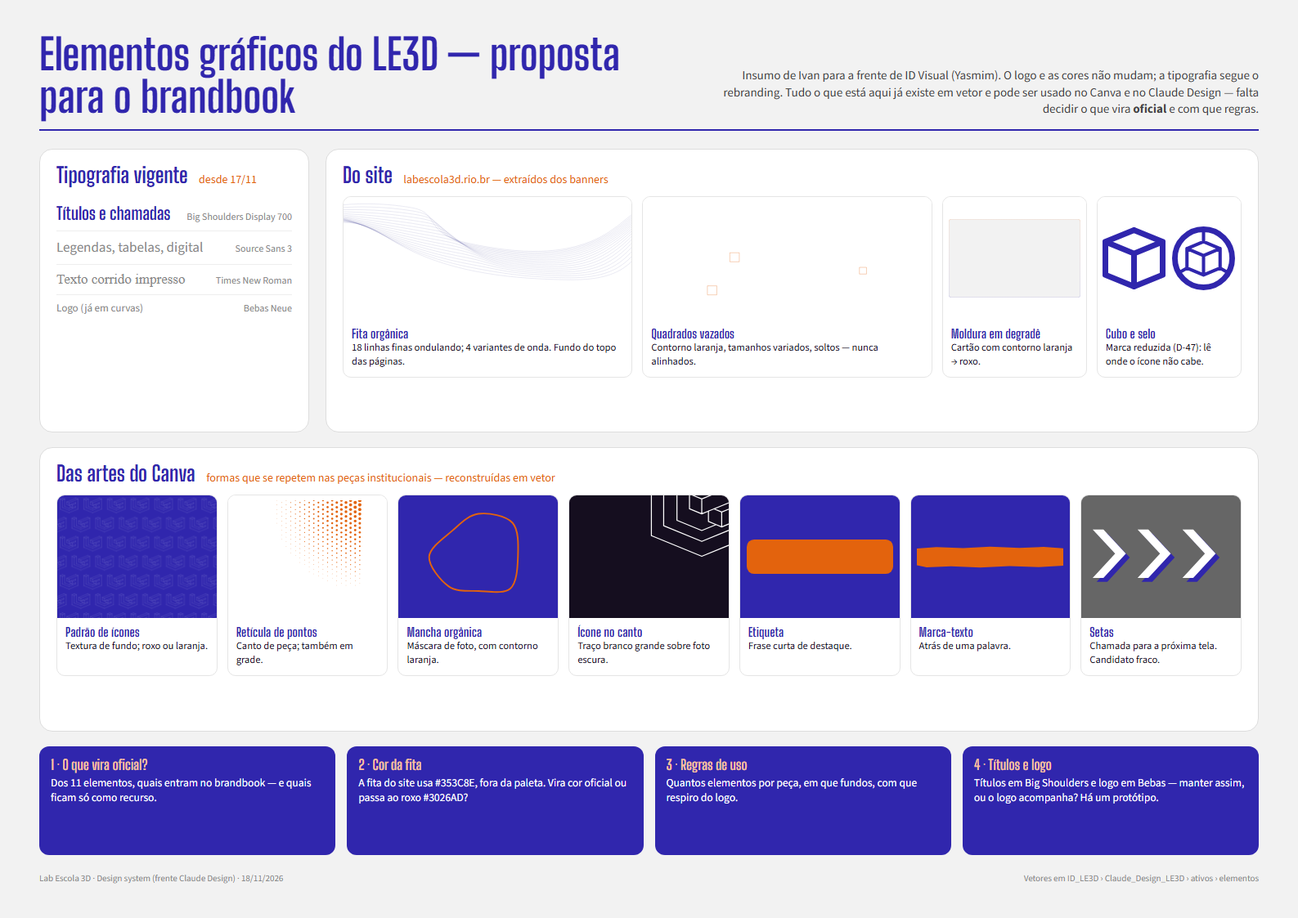
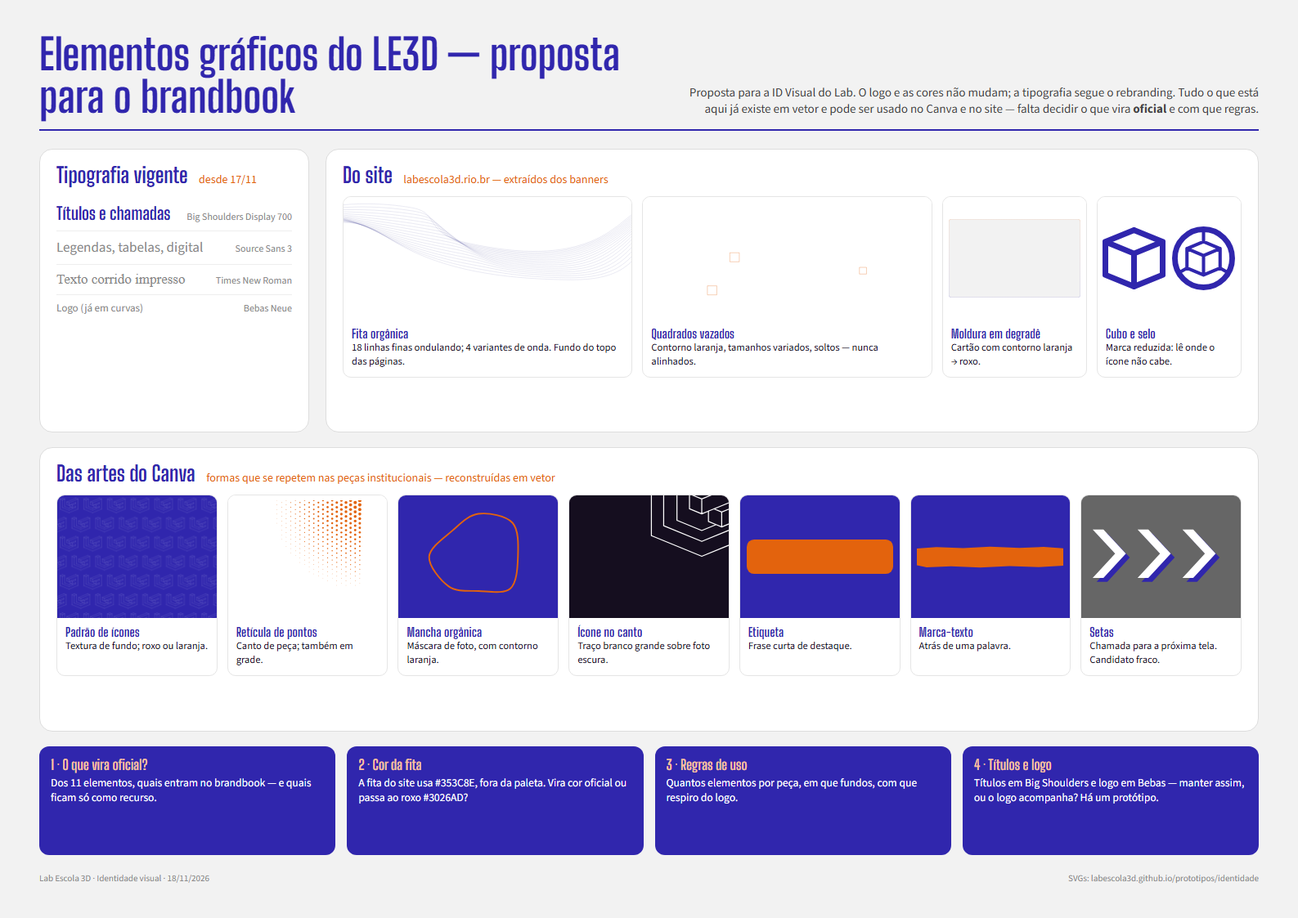
feat(identidade): cubo e selo na galeria; prancha sem referencias internas

diff --git a/identidade/index.html b/identidade/index.html
@@ -10,5 +10,5 @@ h1{color:#3026AD;margin:0 0 6px}h2{color:#3026AD;margin:28px 0 10px}h2 small{col
 <h1>Identidade LE3D — elementos gráficos e kit do professor</h1>
 <p class="aviso"><b>Candidatos, não oficiais.</b> A decisão do que entra no brandbook é da ID Visual. Os SVGs são gerados por código (<a href="https://github.com/labescola3d/prototipos/tree/main/identidade/geradores">geradores</a>); não edite à mão. Clique num card para abrir o SVG (botão direito → salvar).</p>
 <p><a href="prancha-proposta-yasmim.png">Prancha da proposta (lote 1)</a> · <a href="prancha-lote2.png">Prancha do lote 2 e do kit do professor</a> · <a href="https://drive.google.com/drive/folders/10zIkXrBwYcwBtfVTcGe9w5ZvdXt5d_rD">Pasta da equipe no Google Drive</a></p>
-<h2>Elementos do site (2024) <small>10 arquivos</small></h2><div class=g><a class="c" href="elementos/site-2024/fita-organica_antropolojogo-3.svg"><div class="v" style="background:#FFFFFF"><img src="elementos/site-2024/fita-organica_antropolojogo-3.svg" alt="fita-organica_antropolojogo-3" loading="lazy"></div><div class="t">fita-organica_antropolojogo-3</div></a><a class="c" href="elementos/site-2024/fita-organica_formacao-tecnologica.svg"><div class="v" style="background:#FFFFFF"><img src="elementos/site-2024/fita-organica_formacao-tecnologica.svg" alt="fita-organica_formacao-tecnologica" loading="lazy"></div><div class="t">fita-organica_formacao-tecnologica</div></a><a class="c" href="elementos/site-2024/fita-organica_lab-escola-3d.svg"><div class="v" style="background:#FFFFFF"><img src="elementos/site-2024/fita-organica_lab-escola-3d.svg" alt="fita-organica_lab-escola-3d" loading="lazy"></div><div class="t">fita-organica_lab-escola-3d</div></a><a class="c" href="elementos/site-2024/fita-organica_template.svg"><div class="v" style="background:#FFFFFF"><img src="elementos/site-2024/fita-organica_template.svg" alt="fita-organica_template" loading="lazy"></div><div class="t">fita-organica_template</div></a><a class="c" href="elementos/site-2024/moldura-degrade_horizontal.svg"><div class="v" style="background:#FFFFFF"><img src="elementos/site-2024/moldura-degrade_horizontal.svg" alt="moldura-degrade_horizontal" loading="lazy"></div><div class="t">moldura-degrade_horizontal</div></a><a class="c" href="elementos/site-2024/moldura-degrade_vertical.svg"><div class="v" style="background:#FFFFFF"><img src="elementos/site-2024/moldura-degrade_vertical.svg" alt="moldura-degrade_vertical" loading="lazy"></div><div class="t">moldura-degrade_vertical</div></a><a class="c" href="elementos/site-2024/quadrados_antropolojogo-3.svg"><div class="v" style="background:#FFFFFF"><img src="elementos/site-2024/quadrados_antropolojogo-3.svg" alt="quadrados_antropolojogo-3" loading="lazy"></div><div class="t">quadrados_antropolojogo-3</div></a><a class="c" href="elementos/site-2024/quadrados_formacao-tecnologica.svg"><div class="v" style="background:#FFFFFF"><img src="elementos/site-2024/quadrados_formacao-tecnologica.svg" alt="quadrados_formacao-tecnologica" loading="lazy"></div><div class="t">quadrados_formacao-tecnologica</div></a><a class="c" href="elementos/site-2024/quadrados_lab-escola-3d.svg"><div class="v" style="background:#FFFFFF"><img src="elementos/site-2024/quadrados_lab-escola-3d.svg" alt="quadrados_lab-escola-3d" loading="lazy"></div><div class="t">quadrados_lab-escola-3d</div></a><a class="c" href="elementos/site-2024/quadrados_template.svg"><div class="v" style="background:#FFFFFF"><img src="elementos/site-2024/quadrados_template.svg" alt="quadrados_template" loading="lazy"></div><div class="t">quadrados_template</div></a></div><h2>Elementos garimpados no Canva (2026) <small>29 arquivos</small></h2><div class=g><a class="c" href="elementos/canva-2026/bauhaus-modulo.svg"><div class="v" style="background:#FFFFFF"><img src="elementos/canva-2026/bauhaus-modulo.svg" alt="bauhaus-modulo" loading="lazy"></div><div class="t">bauhaus-modulo</div></a><a class="c" href="elementos/canva-2026/brilho-4-pontas.svg"><div class="v" style="background:#3026AD"><img src="elementos/canva-2026/brilho-4-pontas.svg" alt="brilho-4-pontas" loading="lazy"></div><div class="t">brilho-4-pontas</div></a><a class="c" href="elementos/canva-2026/canto-cubo.svg"><div class="v" style="background:#3026AD"><img src="elementos/canva-2026/canto-cubo.svg" alt="canto-cubo" loading="lazy"></div><div class="t">canto-cubo</div></a><a class="c" href="elementos/canva-2026/canto-icone.svg"><div class="v" style="background:#3026AD"><img src="elementos/canva-2026/canto-icone.svg" alt="canto-icone" loading="lazy"></div><div class="t">canto-icone</div></a><a class="c" href="elementos/canva-2026/chevrons_direita.svg"><div class="v" style="background:#3026AD"><img src="elementos/canva-2026/chevrons_direita.svg" alt="chevrons_direita" loading="lazy"></div><div class="t">chevrons_direita</div></a><a class="c" href="elementos/canva-2026/chevrons_esquerda.svg"><div class="v" style="background:#3026AD"><img src="elementos/canva-2026/chevrons_esquerda.svg" alt="chevrons_esquerda" loading="lazy"></div><div class="t">chevrons_esquerda</div></a><a class="c" href="elementos/canva-2026/etiqueta-destaque_laranja.svg"><div class="v" style="background:#FFFFFF"><img src="elementos/canva-2026/etiqueta-destaque_laranja.svg" alt="etiqueta-destaque_laranja" loading="lazy"></div><div class="t">etiqueta-destaque_laranja</div></a><a class="c" href="elementos/canva-2026/etiqueta-destaque_roxo.svg"><div class="v" style="background:#FFFFFF"><img src="elementos/canva-2026/etiqueta-destaque_roxo.svg" alt="etiqueta-destaque_roxo" loading="lazy"></div><div class="t">etiqueta-destaque_roxo</div></a><a class="c" href="elementos/canva-2026/explosao_laranja.svg"><div class="v" style="background:#FFFFFF"><img src="elementos/canva-2026/explosao_laranja.svg" alt="explosao_laranja" loading="lazy"></div><div class="t">explosao_laranja</div></a><a class="c" href="elementos/canva-2026/explosao_roxo.svg"><div class="v" style="background:#FFFFFF"><img src="elementos/canva-2026/explosao_roxo.svg" alt="explosao_roxo" loading="lazy"></div><div class="t">explosao_roxo</div></a><a class="c" href="elementos/canva-2026/faixas-diagonais_laranja.svg"><div class="v" style="background:#3026AD"><img src="elementos/canva-2026/faixas-diagonais_laranja.svg" alt="faixas-diagonais_laranja" loading="lazy"></div><div class="t">faixas-diagonais_laranja</div></a><a class="c" href="elementos/canva-2026/grade-pontos_laranja.svg"><div class="v" style="background:#FFFFFF"><img src="elementos/canva-2026/grade-pontos_laranja.svg" alt="grade-pontos_laranja" loading="lazy"></div><div class="t">grade-pontos_laranja</div></a><a class="c" href="elementos/canva-2026/linhas-circuito_laranja.svg"><div class="v" style="background:#3026AD"><img src="elementos/canva-2026/linhas-circuito_laranja.svg" alt="linhas-circuito_laranja" loading="lazy"></div><div class="t">linhas-circuito_laranja</div></a><a class="c" href="elementos/canva-2026/mancha-organica_1.svg"><div class="v" style="background:#FFFFFF"><img src="elementos/canva-2026/mancha-organica_1.svg" alt="mancha-organica_1" loading="lazy"></div><div class="t">mancha-organica_1</div></a><a class="c" href="elementos/canva-2026/mancha-organica_1_contorno.svg"><div class="v" style="background:#FFFFFF"><img src="elementos/canva-2026/mancha-organica_1_contorno.svg" alt="mancha-organica_1_contorno" loading="lazy"></div><div class="t">mancha-organica_1_contorno</div></a><a class="c" href="elementos/canva-2026/mancha-organica_2.svg"><div class="v" style="background:#FFFFFF"><img src="elementos/canva-2026/mancha-organica_2.svg" alt="mancha-organica_2" loading="lazy"></div><div class="t">mancha-organica_2</div></a><a class="c" href="elementos/canva-2026/mancha-organica_2_contorno.svg"><div class="v" style="background:#FFFFFF"><img src="elementos/canva-2026/mancha-organica_2_contorno.svg" alt="mancha-organica_2_contorno" loading="lazy"></div><div class="t">mancha-organica_2_contorno</div></a><a class="c" href="elementos/canva-2026/mancha-organica_3.svg"><div class="v" style="background:#FFFFFF"><img src="elementos/canva-2026/mancha-organica_3.svg" alt="mancha-organica_3" loading="lazy"></div><div class="t">mancha-organica_3</div></a><a class="c" href="elementos/canva-2026/mancha-organica_3_contorno.svg"><div class="v" style="background:#FFFFFF"><img src="elementos/canva-2026/mancha-organica_3_contorno.svg" alt="mancha-organica_3_contorno" loading="lazy"></div><div class="t">mancha-organica_3_contorno</div></a><a class="c" href="elementos/canva-2026/marca-texto_laranja.svg"><div class="v" style="background:#FFFFFF"><img src="elementos/canva-2026/marca-texto_laranja.svg" alt="marca-texto_laranja" loading="lazy"></div><div class="t">marca-texto_laranja</div></a><a class="c" href="elementos/canva-2026/mascara-diagonal.svg"><div class="v" style="background:#FFFFFF"><img src="elementos/canva-2026/mascara-diagonal.svg" alt="mascara-diagonal" loading="lazy"></div><div class="t">mascara-diagonal</div></a><a class="c" href="elementos/canva-2026/mosaico-triangulos.svg"><div class="v" style="background:#FFFFFF"><img src="elementos/canva-2026/mosaico-triangulos.svg" alt="mosaico-triangulos" loading="lazy"></div><div class="t">mosaico-triangulos</div></a><a class="c" href="elementos/canva-2026/ondas-concentricas.svg"><div class="v" style="background:#E3630D"><img src="elementos/canva-2026/ondas-concentricas.svg" alt="ondas-concentricas" loading="lazy"></div><div class="t">ondas-concentricas</div></a><a class="c" href="elementos/canva-2026/padrao-icones_laranja.svg"><div class="v" style="background:#FFFFFF"><img src="elementos/canva-2026/padrao-icones_laranja.svg" alt="padrao-icones_laranja" loading="lazy"></div><div class="t">padrao-icones_laranja</div></a><a class="c" href="elementos/canva-2026/padrao-icones_roxo.svg"><div class="v" style="background:#FFFFFF"><img src="elementos/canva-2026/padrao-icones_roxo.svg" alt="padrao-icones_roxo" loading="lazy"></div><div class="t">padrao-icones_roxo</div></a><a class="c" href="elementos/canva-2026/reticula-pontos_branco.svg"><div class="v" style="background:#3026AD"><img src="elementos/canva-2026/reticula-pontos_branco.svg" alt="reticula-pontos_branco" loading="lazy"></div><div class="t">reticula-pontos_branco</div></a><a class="c" href="elementos/canva-2026/reticula-pontos_laranja.svg"><div class="v" style="background:#FFFFFF"><img src="elementos/canva-2026/reticula-pontos_laranja.svg" alt="reticula-pontos_laranja" loading="lazy"></div><div class="t">reticula-pontos_laranja</div></a><a class="c" href="elementos/canva-2026/reticula-pontos_roxo.svg"><div class="v" style="background:#3026AD"><img src="elementos/canva-2026/reticula-pontos_roxo.svg" alt="reticula-pontos_roxo" loading="lazy"></div><div class="t">reticula-pontos_roxo</div></a><a class="c" href="elementos/canva-2026/setas-sequencia.svg"><div class="v" style="background:#FFFFFF"><img src="elementos/canva-2026/setas-sequencia.svg" alt="setas-sequencia" loading="lazy"></div><div class="t">setas-sequencia</div></a></div><h2>Kit do professor — gabaritos A4 <small>14 arquivos</small></h2><div class=g><a class="c" href="gabaritos-professor/cabecalho.svg"><div class="v" style="background:#FFFFFF"><img src="gabaritos-professor/cabecalho.svg" alt="cabecalho" loading="lazy"></div><div class="t">cabecalho</div></a><a class="c" href="gabaritos-professor/cartas_12.svg"><div class="v" style="background:#FFFFFF"><img src="gabaritos-professor/cartas_12.svg" alt="cartas_12" loading="lazy"></div><div class="t">cartas_12</div></a><a class="c" href="gabaritos-professor/cartas_4.svg"><div class="v" style="background:#FFFFFF"><img src="gabaritos-professor/cartas_4.svg" alt="cartas_4" loading="lazy"></div><div class="t">cartas_4</div></a><a class="c" href="gabaritos-professor/cartas_6.svg"><div class="v" style="background:#FFFFFF"><img src="gabaritos-professor/cartas_6.svg" alt="cartas_6" loading="lazy"></div><div class="t">cartas_6</div></a><a class="c" href="gabaritos-professor/dado-planificado.svg"><div class="v" style="background:#FFFFFF"><img src="gabaritos-professor/dado-planificado.svg" alt="dado-planificado" loading="lazy"></div><div class="t">dado-planificado</div></a><a class="c" href="gabaritos-professor/ficha-pistas.svg"><div class="v" style="background:#FFFFFF"><img src="gabaritos-professor/ficha-pistas.svg" alt="ficha-pistas" loading="lazy"></div><div class="t">ficha-pistas</div></a><a class="c" href="gabaritos-professor/fichas-sorteio.svg"><div class="v" style="background:#FFFFFF"><img src="gabaritos-professor/fichas-sorteio.svg" alt="fichas-sorteio" loading="lazy"></div><div class="t">fichas-sorteio</div></a><a class="c" href="gabaritos-professor/quebra-cabeca_3x3.svg"><div class="v" style="background:#FFFFFF"><img src="gabaritos-professor/quebra-cabeca_3x3.svg" alt="quebra-cabeca_3x3" loading="lazy"></div><div class="t">quebra-cabeca_3x3</div></a><a class="c" href="gabaritos-professor/quebra-cabeca_5x5.svg"><div class="v" style="background:#FFFFFF"><img src="gabaritos-professor/quebra-cabeca_5x5.svg" alt="quebra-cabeca_5x5" loading="lazy"></div><div class="t">quebra-cabeca_5x5</div></a><a class="c" href="gabaritos-professor/quebra-cabeca_8x8.svg"><div class="v" style="background:#FFFFFF"><img src="gabaritos-professor/quebra-cabeca_8x8.svg" alt="quebra-cabeca_8x8" loading="lazy"></div><div class="t">quebra-cabeca_8x8</div></a><a class="c" href="gabaritos-professor/tabuleiro_anel.svg"><div class="v" style="background:#FFFFFF"><img src="gabaritos-professor/tabuleiro_anel.svg" alt="tabuleiro_anel" loading="lazy"></div><div class="t">tabuleiro_anel</div></a><a class="c" href="gabaritos-professor/tabuleiro_colmeia.svg"><div class="v" style="background:#FFFFFF"><img src="gabaritos-professor/tabuleiro_colmeia.svg" alt="tabuleiro_colmeia" loading="lazy"></div><div class="t">tabuleiro_colmeia</div></a><a class="c" href="gabaritos-professor/tabuleiro_moldura.svg"><div class="v" style="background:#FFFFFF"><img src="gabaritos-professor/tabuleiro_moldura.svg" alt="tabuleiro_moldura" loading="lazy"></div><div class="t">tabuleiro_moldura</div></a><a class="c" href="gabaritos-professor/tabuleiro_serpentina.svg"><div class="v" style="background:#FFFFFF"><img src="gabaritos-professor/tabuleiro_serpentina.svg" alt="tabuleiro_serpentina" loading="lazy"></div><div class="t">tabuleiro_serpentina</div></a></div>
+<h2>Marca reduzida: cubo e selo <small>2 arquivos</small></h2><div class=g><a class="c" href="marca/cubo-le3d_traco.svg"><div class="v" style="background:#FFFFFF"><img src="marca/cubo-le3d_traco.svg" alt="cubo-le3d_traco" loading="lazy"></div><div class="t">cubo-le3d_traco</div></a><a class="c" href="marca/selo-cubo-le3d_traco.svg"><div class="v" style="background:#FFFFFF"><img src="marca/selo-cubo-le3d_traco.svg" alt="selo-cubo-le3d_traco" loading="lazy"></div><div class="t">selo-cubo-le3d_traco</div></a></div><h2>Elementos do site (2024) <small>10 arquivos</small></h2><div class=g><a class="c" href="elementos/site-2024/fita-organica_antropolojogo-3.svg"><div class="v" style="background:#FFFFFF"><img src="elementos/site-2024/fita-organica_antropolojogo-3.svg" alt="fita-organica_antropolojogo-3" loading="lazy"></div><div class="t">fita-organica_antropolojogo-3</div></a><a class="c" href="elementos/site-2024/fita-organica_formacao-tecnologica.svg"><div class="v" style="background:#FFFFFF"><img src="elementos/site-2024/fita-organica_formacao-tecnologica.svg" alt="fita-organica_formacao-tecnologica" loading="lazy"></div><div class="t">fita-organica_formacao-tecnologica</div></a><a class="c" href="elementos/site-2024/fita-organica_lab-escola-3d.svg"><div class="v" style="background:#FFFFFF"><img src="elementos/site-2024/fita-organica_lab-escola-3d.svg" alt="fita-organica_lab-escola-3d" loading="lazy"></div><div class="t">fita-organica_lab-escola-3d</div></a><a class="c" href="elementos/site-2024/fita-organica_template.svg"><div class="v" style="background:#FFFFFF"><img src="elementos/site-2024/fita-organica_template.svg" alt="fita-organica_template" loading="lazy"></div><div class="t">fita-organica_template</div></a><a class="c" href="elementos/site-2024/moldura-degrade_horizontal.svg"><div class="v" style="background:#FFFFFF"><img src="elementos/site-2024/moldura-degrade_horizontal.svg" alt="moldura-degrade_horizontal" loading="lazy"></div><div class="t">moldura-degrade_horizontal</div></a><a class="c" href="elementos/site-2024/moldura-degrade_vertical.svg"><div class="v" style="background:#FFFFFF"><img src="elementos/site-2024/moldura-degrade_vertical.svg" alt="moldura-degrade_vertical" loading="lazy"></div><div class="t">moldura-degrade_vertical</div></a><a class="c" href="elementos/site-2024/quadrados_antropolojogo-3.svg"><div class="v" style="background:#FFFFFF"><img src="elementos/site-2024/quadrados_antropolojogo-3.svg" alt="quadrados_antropolojogo-3" loading="lazy"></div><div class="t">quadrados_antropolojogo-3</div></a><a class="c" href="elementos/site-2024/quadrados_formacao-tecnologica.svg"><div class="v" style="background:#FFFFFF"><img src="elementos/site-2024/quadrados_formacao-tecnologica.svg" alt="quadrados_formacao-tecnologica" loading="lazy"></div><div class="t">quadrados_formacao-tecnologica</div></a><a class="c" href="elementos/site-2024/quadrados_lab-escola-3d.svg"><div class="v" style="background:#FFFFFF"><img src="elementos/site-2024/quadrados_lab-escola-3d.svg" alt="quadrados_lab-escola-3d" loading="lazy"></div><div class="t">quadrados_lab-escola-3d</div></a><a class="c" href="elementos/site-2024/quadrados_template.svg"><div class="v" style="background:#FFFFFF"><img src="elementos/site-2024/quadrados_template.svg" alt="quadrados_template" loading="lazy"></div><div class="t">quadrados_template</div></a></div><h2>Elementos garimpados no Canva (2026) <small>29 arquivos</small></h2><div class=g><a class="c" href="elementos/canva-2026/bauhaus-modulo.svg"><div class="v" style="background:#FFFFFF"><img src="elementos/canva-2026/bauhaus-modulo.svg" alt="bauhaus-modulo" loading="lazy"></div><div class="t">bauhaus-modulo</div></a><a class="c" href="elementos/canva-2026/brilho-4-pontas.svg"><div class="v" style="background:#3026AD"><img src="elementos/canva-2026/brilho-4-pontas.svg" alt="brilho-4-pontas" loading="lazy"></div><div class="t">brilho-4-pontas</div></a><a class="c" href="elementos/canva-2026/canto-cubo.svg"><div class="v" style="background:#3026AD"><img src="elementos/canva-2026/canto-cubo.svg" alt="canto-cubo" loading="lazy"></div><div class="t">canto-cubo</div></a><a class="c" href="elementos/canva-2026/canto-icone.svg"><div class="v" style="background:#3026AD"><img src="elementos/canva-2026/canto-icone.svg" alt="canto-icone" loading="lazy"></div><div class="t">canto-icone</div></a><a class="c" href="elementos/canva-2026/chevrons_direita.svg"><div class="v" style="background:#3026AD"><img src="elementos/canva-2026/chevrons_direita.svg" alt="chevrons_direita" loading="lazy"></div><div class="t">chevrons_direita</div></a><a class="c" href="elementos/canva-2026/chevrons_esquerda.svg"><div class="v" style="background:#3026AD"><img src="elementos/canva-2026/chevrons_esquerda.svg" alt="chevrons_esquerda" loading="lazy"></div><div class="t">chevrons_esquerda</div></a><a class="c" href="elementos/canva-2026/etiqueta-destaque_laranja.svg"><div class="v" style="background:#FFFFFF"><img src="elementos/canva-2026/etiqueta-destaque_laranja.svg" alt="etiqueta-destaque_laranja" loading="lazy"></div><div class="t">etiqueta-destaque_laranja</div></a><a class="c" href="elementos/canva-2026/etiqueta-destaque_roxo.svg"><div class="v" style="background:#FFFFFF"><img src="elementos/canva-2026/etiqueta-destaque_roxo.svg" alt="etiqueta-destaque_roxo" loading="lazy"></div><div class="t">etiqueta-destaque_roxo</div></a><a class="c" href="elementos/canva-2026/explosao_laranja.svg"><div class="v" style="background:#FFFFFF"><img src="elementos/canva-2026/explosao_laranja.svg" alt="explosao_laranja" loading="lazy"></div><div class="t">explosao_laranja</div></a><a class="c" href="elementos/canva-2026/explosao_roxo.svg"><div class="v" style="background:#FFFFFF"><img src="elementos/canva-2026/explosao_roxo.svg" alt="explosao_roxo" loading="lazy"></div><div class="t">explosao_roxo</div></a><a class="c" href="elementos/canva-2026/faixas-diagonais_laranja.svg"><div class="v" style="background:#3026AD"><img src="elementos/canva-2026/faixas-diagonais_laranja.svg" alt="faixas-diagonais_laranja" loading="lazy"></div><div class="t">faixas-diagonais_laranja</div></a><a class="c" href="elementos/canva-2026/grade-pontos_laranja.svg"><div class="v" style="background:#FFFFFF"><img src="elementos/canva-2026/grade-pontos_laranja.svg" alt="grade-pontos_laranja" loading="lazy"></div><div class="t">grade-pontos_laranja</div></a><a class="c" href="elementos/canva-2026/linhas-circuito_laranja.svg"><div class="v" style="background:#3026AD"><img src="elementos/canva-2026/linhas-circuito_laranja.svg" alt="linhas-circuito_laranja" loading="lazy"></div><div class="t">linhas-circuito_laranja</div></a><a class="c" href="elementos/canva-2026/mancha-organica_1.svg"><div class="v" style="background:#FFFFFF"><img src="elementos/canva-2026/mancha-organica_1.svg" alt="mancha-organica_1" loading="lazy"></div><div class="t">mancha-organica_1</div></a><a class="c" href="elementos/canva-2026/mancha-organica_1_contorno.svg"><div class="v" style="background:#FFFFFF"><img src="elementos/canva-2026/mancha-organica_1_contorno.svg" alt="mancha-organica_1_contorno" loading="lazy"></div><div class="t">mancha-organica_1_contorno</div></a><a class="c" href="elementos/canva-2026/mancha-organica_2.svg"><div class="v" style="background:#FFFFFF"><img src="elementos/canva-2026/mancha-organica_2.svg" alt="mancha-organica_2" loading="lazy"></div><div class="t">mancha-organica_2</div></a><a class="c" href="elementos/canva-2026/mancha-organica_2_contorno.svg"><div class="v" style="background:#FFFFFF"><img src="elementos/canva-2026/mancha-organica_2_contorno.svg" alt="mancha-organica_2_contorno" loading="lazy"></div><div class="t">mancha-organica_2_contorno</div></a><a class="c" href="elementos/canva-2026/mancha-organica_3.svg"><div class="v" style="background:#FFFFFF"><img src="elementos/canva-2026/mancha-organica_3.svg" alt="mancha-organica_3" loading="lazy"></div><div class="t">mancha-organica_3</div></a><a class="c" href="elementos/canva-2026/mancha-organica_3_contorno.svg"><div class="v" style="background:#FFFFFF"><img src="elementos/canva-2026/mancha-organica_3_contorno.svg" alt="mancha-organica_3_contorno" loading="lazy"></div><div class="t">mancha-organica_3_contorno</div></a><a class="c" href="elementos/canva-2026/marca-texto_laranja.svg"><div class="v" style="background:#FFFFFF"><img src="elementos/canva-2026/marca-texto_laranja.svg" alt="marca-texto_laranja" loading="lazy"></div><div class="t">marca-texto_laranja</div></a><a class="c" href="elementos/canva-2026/mascara-diagonal.svg"><div class="v" style="background:#FFFFFF"><img src="elementos/canva-2026/mascara-diagonal.svg" alt="mascara-diagonal" loading="lazy"></div><div class="t">mascara-diagonal</div></a><a class="c" href="elementos/canva-2026/mosaico-triangulos.svg"><div class="v" style="background:#FFFFFF"><img src="elementos/canva-2026/mosaico-triangulos.svg" alt="mosaico-triangulos" loading="lazy"></div><div class="t">mosaico-triangulos</div></a><a class="c" href="elementos/canva-2026/ondas-concentricas.svg"><div class="v" style="background:#E3630D"><img src="elementos/canva-2026/ondas-concentricas.svg" alt="ondas-concentricas" loading="lazy"></div><div class="t">ondas-concentricas</div></a><a class="c" href="elementos/canva-2026/padrao-icones_laranja.svg"><div class="v" style="background:#FFFFFF"><img src="elementos/canva-2026/padrao-icones_laranja.svg" alt="padrao-icones_laranja" loading="lazy"></div><div class="t">padrao-icones_laranja</div></a><a class="c" href="elementos/canva-2026/padrao-icones_roxo.svg"><div class="v" style="background:#FFFFFF"><img src="elementos/canva-2026/padrao-icones_roxo.svg" alt="padrao-icones_roxo" loading="lazy"></div><div class="t">padrao-icones_roxo</div></a><a class="c" href="elementos/canva-2026/reticula-pontos_branco.svg"><div class="v" style="background:#3026AD"><img src="elementos/canva-2026/reticula-pontos_branco.svg" alt="reticula-pontos_branco" loading="lazy"></div><div class="t">reticula-pontos_branco</div></a><a class="c" href="elementos/canva-2026/reticula-pontos_laranja.svg"><div class="v" style="background:#FFFFFF"><img src="elementos/canva-2026/reticula-pontos_laranja.svg" alt="reticula-pontos_laranja" loading="lazy"></div><div class="t">reticula-pontos_laranja</div></a><a class="c" href="elementos/canva-2026/reticula-pontos_roxo.svg"><div class="v" style="background:#3026AD"><img src="elementos/canva-2026/reticula-pontos_roxo.svg" alt="reticula-pontos_roxo" loading="lazy"></div><div class="t">reticula-pontos_roxo</div></a><a class="c" href="elementos/canva-2026/setas-sequencia.svg"><div class="v" style="background:#FFFFFF"><img src="elementos/canva-2026/setas-sequencia.svg" alt="setas-sequencia" loading="lazy"></div><div class="t">setas-sequencia</div></a></div><h2>Kit do professor — gabaritos A4 <small>14 arquivos</small></h2><div class=g><a class="c" href="gabaritos-professor/cabecalho.svg"><div class="v" style="background:#FFFFFF"><img src="gabaritos-professor/cabecalho.svg" alt="cabecalho" loading="lazy"></div><div class="t">cabecalho</div></a><a class="c" href="gabaritos-professor/cartas_12.svg"><div class="v" style="background:#FFFFFF"><img src="gabaritos-professor/cartas_12.svg" alt="cartas_12" loading="lazy"></div><div class="t">cartas_12</div></a><a class="c" href="gabaritos-professor/cartas_4.svg"><div class="v" style="background:#FFFFFF"><img src="gabaritos-professor/cartas_4.svg" alt="cartas_4" loading="lazy"></div><div class="t">cartas_4</div></a><a class="c" href="gabaritos-professor/cartas_6.svg"><div class="v" style="background:#FFFFFF"><img src="gabaritos-professor/cartas_6.svg" alt="cartas_6" loading="lazy"></div><div class="t">cartas_6</div></a><a class="c" href="gabaritos-professor/dado-planificado.svg"><div class="v" style="background:#FFFFFF"><img src="gabaritos-professor/dado-planificado.svg" alt="dado-planificado" loading="lazy"></div><div class="t">dado-planificado</div></a><a class="c" href="gabaritos-professor/ficha-pistas.svg"><div class="v" style="background:#FFFFFF"><img src="gabaritos-professor/ficha-pistas.svg" alt="ficha-pistas" loading="lazy"></div><div class="t">ficha-pistas</div></a><a class="c" href="gabaritos-professor/fichas-sorteio.svg"><div class="v" style="background:#FFFFFF"><img src="gabaritos-professor/fichas-sorteio.svg" alt="fichas-sorteio" loading="lazy"></div><div class="t">fichas-sorteio</div></a><a class="c" href="gabaritos-professor/quebra-cabeca_3x3.svg"><div class="v" style="background:#FFFFFF"><img src="gabaritos-professor/quebra-cabeca_3x3.svg" alt="quebra-cabeca_3x3" loading="lazy"></div><div class="t">quebra-cabeca_3x3</div></a><a class="c" href="gabaritos-professor/quebra-cabeca_5x5.svg"><div class="v" style="background:#FFFFFF"><img src="gabaritos-professor/quebra-cabeca_5x5.svg" alt="quebra-cabeca_5x5" loading="lazy"></div><div class="t">quebra-cabeca_5x5</div></a><a class="c" href="gabaritos-professor/quebra-cabeca_8x8.svg"><div class="v" style="background:#FFFFFF"><img src="gabaritos-professor/quebra-cabeca_8x8.svg" alt="quebra-cabeca_8x8" loading="lazy"></div><div class="t">quebra-cabeca_8x8</div></a><a class="c" href="gabaritos-professor/tabuleiro_anel.svg"><div class="v" style="background:#FFFFFF"><img src="gabaritos-professor/tabuleiro_anel.svg" alt="tabuleiro_anel" loading="lazy"></div><div class="t">tabuleiro_anel</div></a><a class="c" href="gabaritos-professor/tabuleiro_colmeia.svg"><div class="v" style="background:#FFFFFF"><img src="gabaritos-professor/tabuleiro_colmeia.svg" alt="tabuleiro_colmeia" loading="lazy"></div><div class="t">tabuleiro_colmeia</div></a><a class="c" href="gabaritos-professor/tabuleiro_moldura.svg"><div class="v" style="background:#FFFFFF"><img src="gabaritos-professor/tabuleiro_moldura.svg" alt="tabuleiro_moldura" loading="lazy"></div><div class="t">tabuleiro_moldura</div></a><a class="c" href="gabaritos-professor/tabuleiro_serpentina.svg"><div class="v" style="background:#FFFFFF"><img src="gabaritos-professor/tabuleiro_serpentina.svg" alt="tabuleiro_serpentina" loading="lazy"></div><div class="t">tabuleiro_serpentina</div></a></div>
 </main></body></html>

diff --git a/identidade/README.md b/identidade/README.md
@@ -3,12 +3,9 @@
 Elementos gráficos candidatos e gabaritos do professor do Lab Escola 3D, publicados aqui para que o Canva e a equipe os peguem por URL.
 
 - **Galeria:** https://labescola3d.github.io/prototipos/identidade/
+- `marca/` — cubo e selo em traço (marca reduzida, para onde o ícone não cabe).
 - `elementos/site-2024/` — fita orgânica, quadrados vazados e moldura em degradê, extraídos dos banners de labescola3d.rio.br.
 - `elementos/canva-2026/` — 15 formas recorrentes das artes do Canva (dois lotes, 18/11/2026), reconstruídas em vetor.
 - `gabaritos-professor/` — 14 gabaritos A4 em preto e branco (benchmark: Oficina de Gamificação).
 
-- `geradores/` — o código que gera cada SVG, a geometria do logo e a paleta (ver `geradores/README.md`).
-
-**Status:** candidatos, não oficiais; o que entra no brandbook é decisão da ID Visual. Para mudar um SVG, mude o gerador e rode de novo.
-
-**Documentos da equipe** (roteiro da reunião de 18/11, pranchas, SVGs em .zip): pasta *03 Comunicação* no Google Drive do Lab — https://drive.google.com/drive/folders/10zIkXrBwYcwBtfVTcGe9w5ZvdXt5d_rD
+**Status:** candidatos, não oficiais. **Fonte da verdade:** o design system do LE3D (frente Claude Design), onde cada SVG é gerado por código. Não edite os arquivos aqui; regere lá e espelhe de novo.
